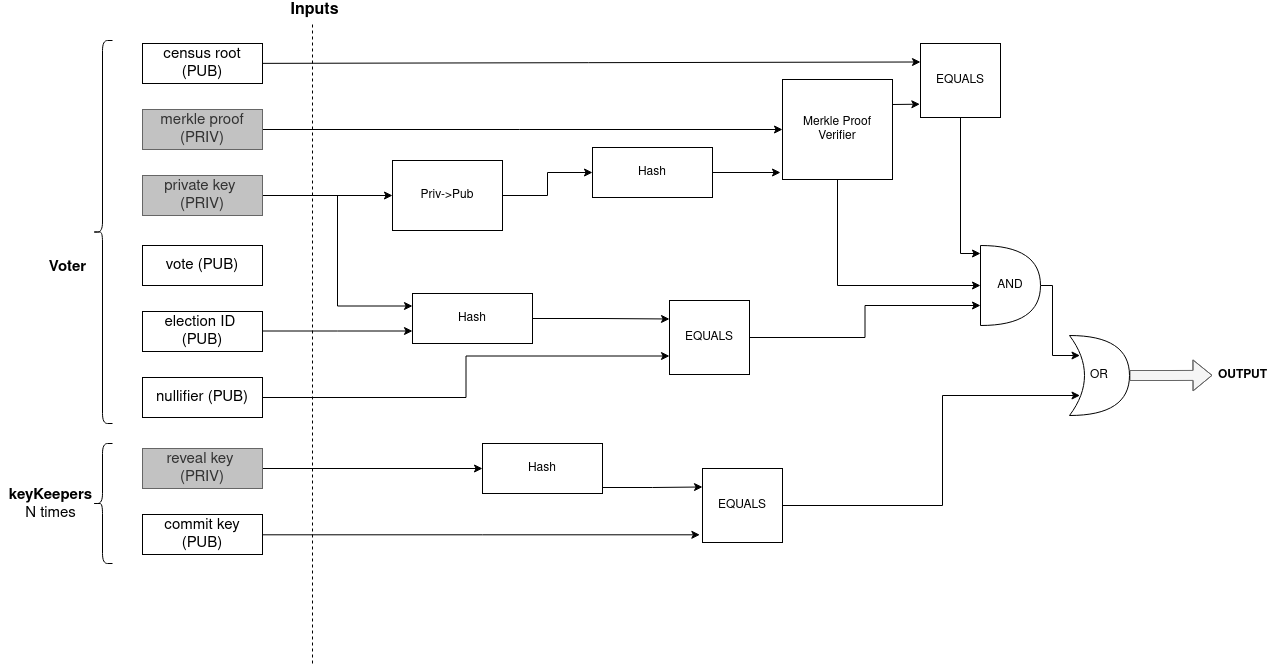
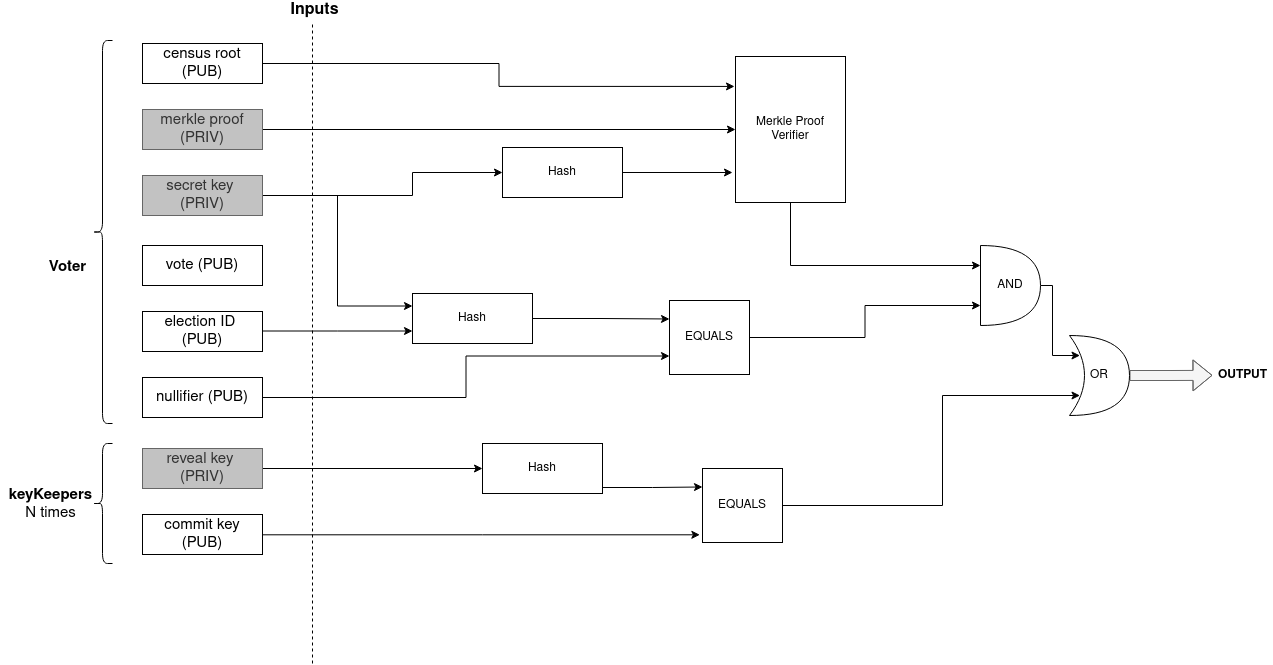
Small fix: private->secret key & circuit2 diagram

diff --git a/src/architecture/protocol/anonymous-voting/zk-census-proof.md b/src/architecture/protocol/anonymous-voting/zk-census-proof.md
@@ -17,9 +17,9 @@ To this end, Vocdoni achieves voting anonymity by the use of ZK-Snarks.
 Snark stands for *Succinct non-interactive argument of knowledge*. In our case, this means proving to someone that we know something, but without revealing the contents of what we know.
 
 In our case:
-  1. `Voter` is the owner of the `private key` corresponding to a certain `public key`
+  1. `Voter` is the owner of the `secret key` corresponding to a certain `public key`
   2. `Voter`'s `public key` is included in the `census` Merkle Tree
-  3. The nullifier provided by `Voter` uniquely corresponds to their `private key` and the `process ID` for a specific voting process
+  3. The nullifier provided by `Voter` uniquely corresponds to their `secret key` and the `process ID` for a specific voting process
 
 Although the computation is CPU and memory intensive, ZK Proofs can be generated from the user client running on modest hardware. The proof is validated by the Vochain Nodes, Miners, and any Third Party monitoring the process.
 
@@ -36,8 +36,8 @@ Data that could reveal the identity of the voter are kept private (gray boxes in
 
 The circuit above verifies that:
 - the prover is the owner of the secret key
-- the public key of the private key is inside a Hash, which is inside the Merkle Tree with the CensusRoot (`key=Poseidon(pk.X, pk.Y), value=0`)
-- `H(privateKey, electionID) == nullifier`
+- the public key of the secret key is inside a Hash, which is inside the Merkle Tree with the CensusRoot (`key=Poseidon(secretKey), value=0`)
+- `H(secretKey, electionID) == nullifier`
 
 #### Proof generation
 
@@ -51,7 +51,7 @@ Steps:
 1. **Vote encryption**
     - `encrypted_vote = encrypt( selected_voting_options + random_nonce )`
 2. **Nullifier generation**
-    - `nullifier = hash( process_id + user_private_key )`
+    - `nullifier = hash( process_id + user_secret_key )`
 3. **Fetch merkle proof**
     - From any source that has the census merkle tree such as a Vocdoni Gateway or directly from IPFS.
 
@@ -98,7 +98,7 @@ Vochain->>Vochain: 14. verify zkSNARK proof, accept the vote
         - This is the key that will be added into the *CensusTree*
 5. *[U+V]* **Register voting key** using **login key** (registerKeyTx)
 6. *[V]* Build voting **census merkle tree** (in state)
-    - Where each leaf contains the hash of each user's `pk` (*voting key*)
+    - Where each leaf contains the hash of each user's `secretKey` (*voting key*)
     - MerkleTree type: circom compatible
         - Hash function: [Poseidon](https://github.com/iden3/go-iden3-crypto/blob/master/poseidon/poseidon.go)
         - Tree [Go impl](https://github.com/vocdoni/vocdoni-node/blob/master/censustree/arbotree/wrapper.go)
@@ -146,7 +146,7 @@ The following diagram contains a visual representation of the data structure of 
 {
 	"censusRoot": "51642541620950251760298704744678482162425252475654827255045491135352807540162",
 	"censusSiblings": ["0","0","0","0"],
-	"privateKey": "6190793965647866647574058687473278714480561351424348391693421151024369116465",
+	"secretKey": "6190793965647866647574058687473278714480561351424348391693421151024369116465",
 	"voteValue": "1",
 	"electionId": "10",
 	"nullifier": "1938187656076799017313903315498318464349291455761501098436114043715056719301",
@@ -201,10 +201,7 @@ zkInputs of this alternative scheme:
 {
 	"censusRoot": "51642541620950251760298704744678482162425252475654827255045491135352807540162",
 	"censusSiblings": ["0","0","0","0"],
-	"privateKey": "6190793965647866647574058687473278714480561351424348391693421151024369116465",
-	"voteSigS": "2093461910575977345603199789919760192811763972089699387324401771367839603655",
-	"voteSigR8x": "8553678144208642175027223770335048072652078621216414881653012537434846327449",
-	"voteSigR8y": "5507837342589329113352496188906367161790372084365285966741761856353367255709",
+	"secretKey": "6190793965647866647574058687473278714480561351424348391693421151024369116465",
 	"voteValue": "1",
 	"electionId": "10",
 	"nullifier": "1938187656076799017313903315498318464349291455761501098436114043715056719301",
